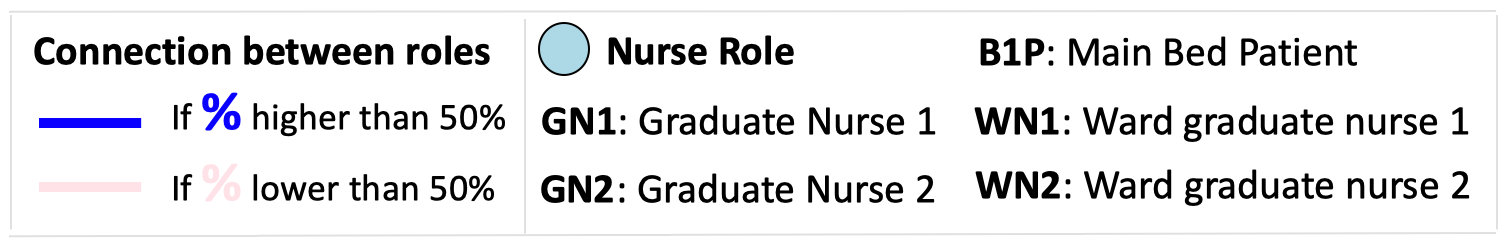
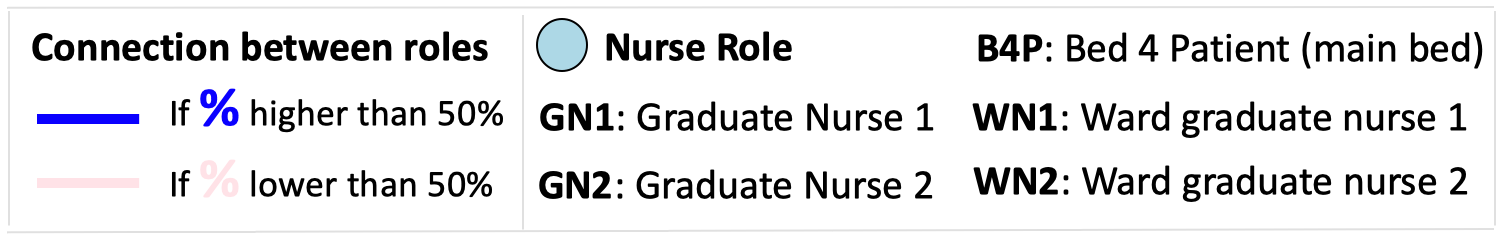
change b1p for b4p

diff --git a/client/views/timeLineRules.html b/client/views/timeLineRules.html
@@ -291,7 +291,7 @@ function visVanillaTimeLine(){
 	    var groups = [];
 	    var value ={};
 	    for(var i=0;i<data.n;i++){
-	    	if(participants[i]=='PTN' || participants[i]=='B1P'){
+	    	if(participants[i]=='PTN' || participants[i]=='B1P' || participants[i]=='B4P'){
 	    		groups[i] = new vis.DataSet([
 	        {id:data.participants[participants[i]][0].group, content:participants[i], classname:participants[i], style:"color: white; background-color: white;"}]);
 	    	}else{
